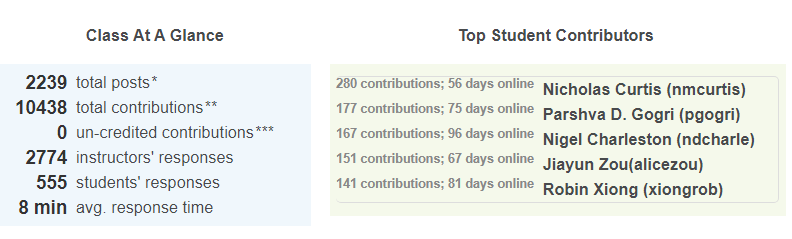
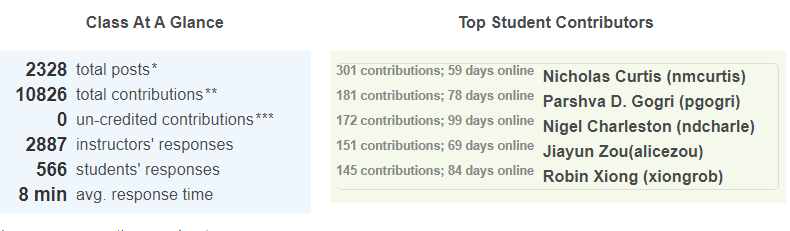
update contributions for eecs 482 page.

diff --git a/eecs482.html b/eecs482.html
@@ -52,13 +52,13 @@
                     <div class="inner">
                         <h1>EECS 482 Fall 2020 Piazza Contributions</h1>
                         <img src="images/linux-2025130_640.png" alt="Linux Mascot" style="width:20%;height:auto;margin-left:auto;margin-right:auto;display:block;">
-                        <p>To demonstrate my understanding of the concepts and projects of EECS 482, I joined its Fall 2020 piazza to help the course staff with answering student questions. As of 11/17/2020, I made 167 contributions.
-                            Of my answers, over 29 of them have been endorsed by a course instructor. For sake of privacy, I remained anonymous; answers and counts can be verified by current instructors on <a href="https://piazza.com/class/kdcju7ogpl21lq">Piazza's statistics page</a>:
+                        <p>To demonstrate my understanding of the concepts and projects of EECS 482, I joined its Fall 2020 piazza to help the course staff with answering student questions. <b>As of 11/20/2020, I made 172 contributions.
+                            Of my answers, over 30 of them have been endorsed by a course instructor.</b> For sake of privacy, I remained anonymous; answers and counts can be verified by current instructors on <a href="https://piazza.com/class/kdcju7ogpl21lq">Piazza's statistics page</a>:
                             <img src="images/student_contributions.PNG" alt="Proof of contributions" style="width:100%;height:auto;">
-
                         </p>
                         <h2>Instructor Endorsed Answers</h2>
                         <ol>
+                            <li><a href="https://piazza.com/class/kdcju7ogpl21lq?cid=2399" target="_blank">@2399 Is the empty string a legal password? (P4)</a></li> <b>Endorsed by Peter Chen</b>
                             <li><a href="https://piazza.com/class/kdcju7ogpl21lq?cid=2224" target="_blank">@2224 Careers Related to OS Development + Future Learning</a></li> <b>Endorsed by Peter Chen</b>
                             <li><a href="https://piazza.com/class/kdcju7ogpl21lq?cid=2221" target="_blank">@2221 Downloading Boost Library On CAEN</a></li><b>Endorsed by Peter Chen</b>
                             <li><a href="https://piazza.com/class/kdcju7ogpl21lq?cid=2108" target="_blank">@2108 Clarification on Swap Block Assignment (P3)</a></li> <b>Endorsed by Peter Chen</b>
